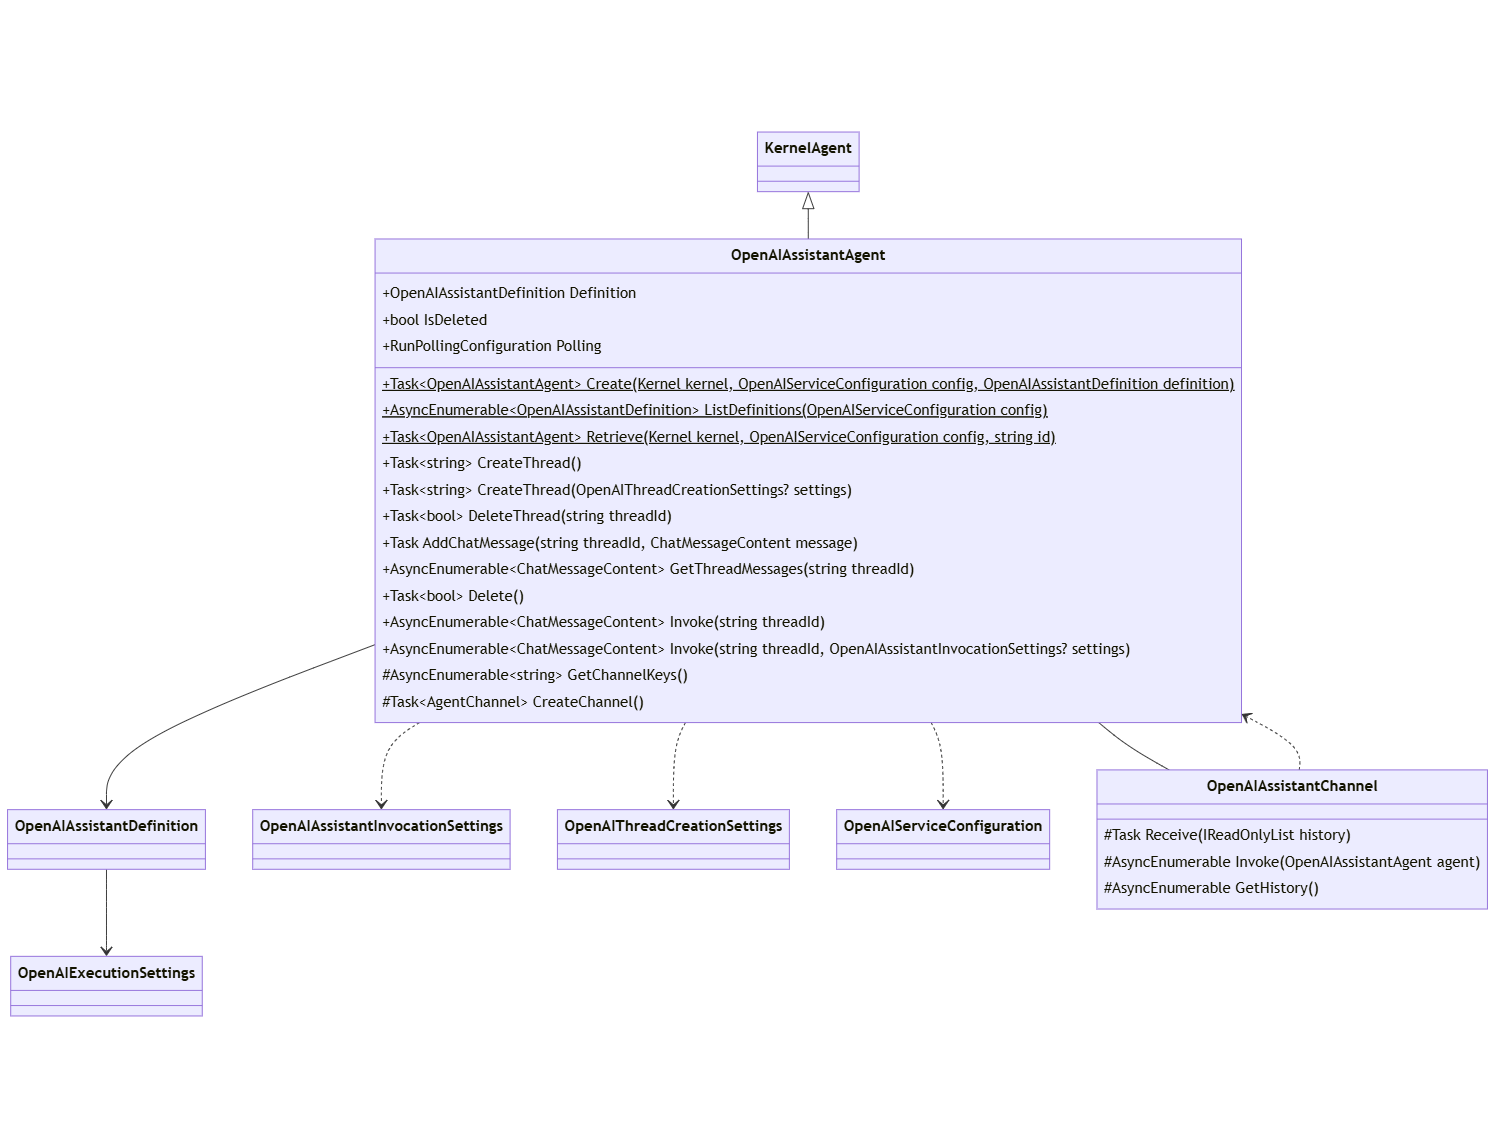
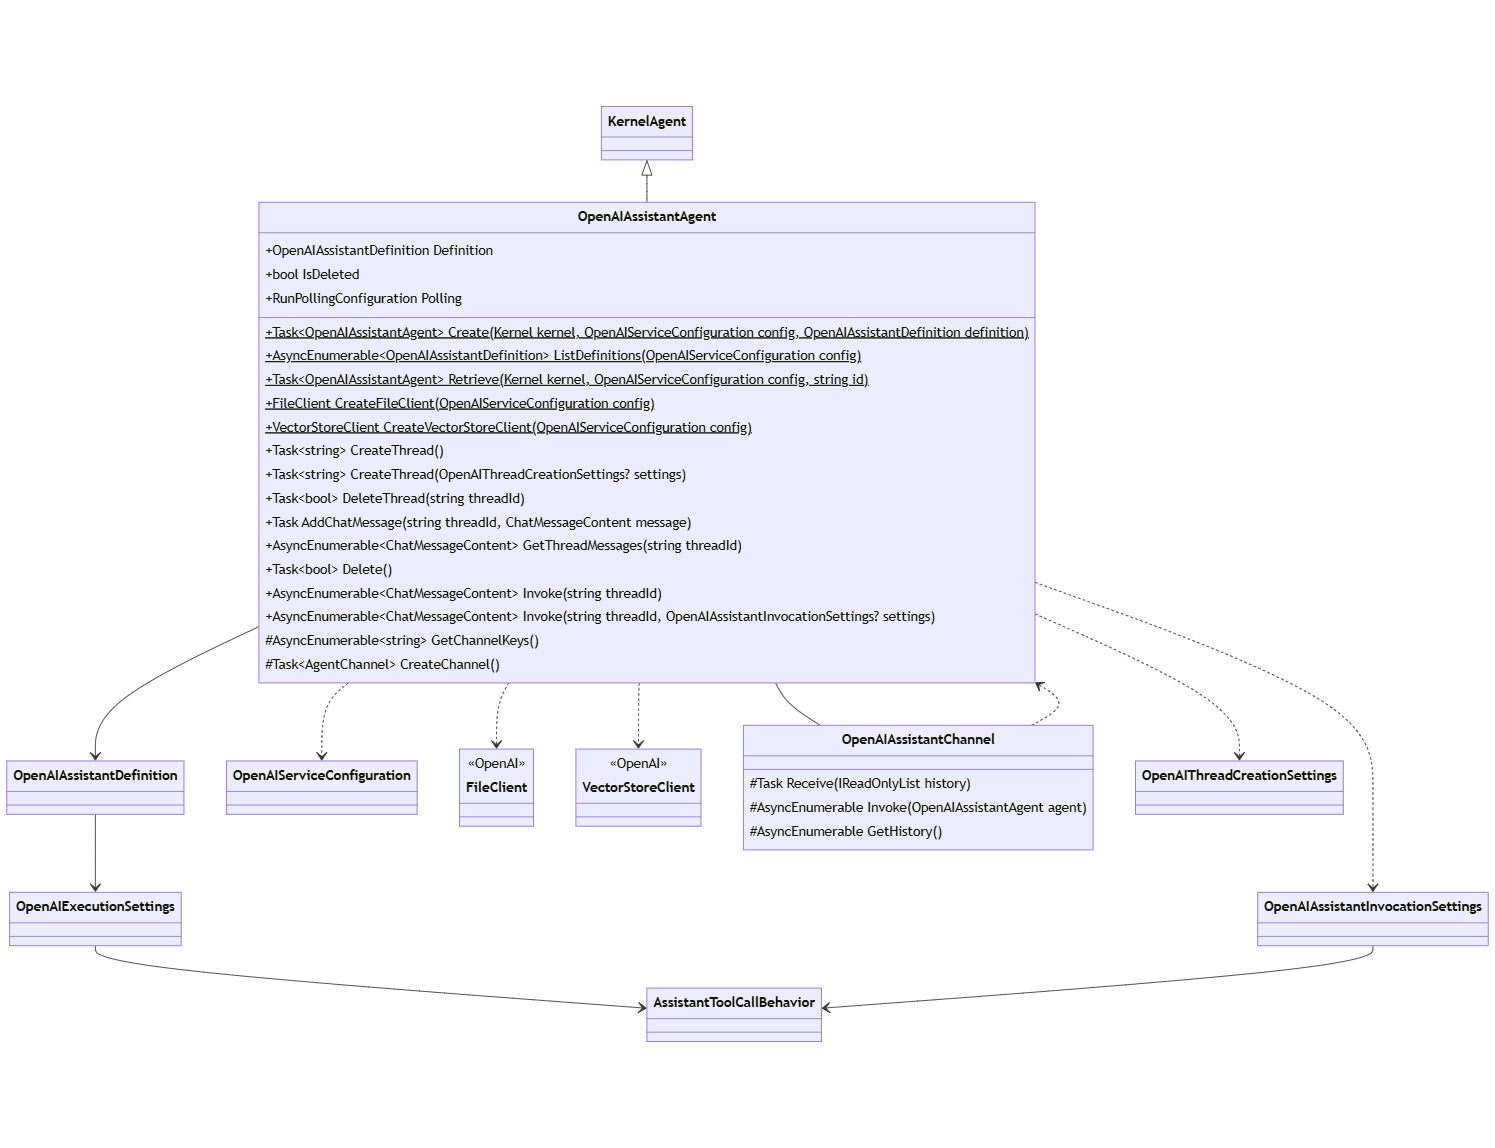
Add ToolCallBehavior

Changed region(s): [[0.0, 0.122, 1.0, 0.8841], [0.4308, 0.8537, 0.5538, 0.9146], [0.4, 0.0915, 0.4615, 0.1524]]

diff --git a/docs/decisions/0049-agents-assistantsV2.md b/docs/decisions/0049-agents-assistantsV2.md
@@ -12,7 +12,6 @@ Open AI has release the _Assistants V2_ API.  This builds on top of the V1 _assi
 ## Design
 
 Migrating to Assistant V2 API is a breaking change to the existing package due to:
-- Class definition changes
 - Underlying capability differences (e.g. `file-search` vs `retrieval`)
 - Underlying V2 SDK is version incompatible with V1 (`OpenAI` and `Azure.AI.OpenAI`)
 
@@ -29,7 +28,7 @@ The `OpenAIAssistantDefinition` was previously used only when enumerating a list
 This includes optional _execution_settings_ for defining default _run_ behavior.  Since these execution settings are not part of the remote assistant definition, they are persisted in the assistant metadata for when an existing agent is retrieved.
 
 <p align="center">
-<kbd><img src="diagrams/assistant-definition.png"  style="width: 360pt;"></kbd>
+<kbd><img src="diagrams/assistant-definition.png"  style="width: 500pt;"></kbd>
 </p>
 
 
@@ -38,7 +37,7 @@ This includes optional _execution_settings_ for defining default _run_ behavior.
 When invoking an `OpenAIAssistantAgent` directly (no-chat), settings that only apply to a discrete run may be specified.  These settings are defined as `OpenAIAssistantInvocationSettings` and ovetake precedence over any corresponding assistant or thread settings.
 
 <p align="center">
-<kbd><img src="diagrams/assistant-invocationsettings.png" style="width: 220pt;"></kbd>
+<kbd><img src="diagrams/assistant-invocationsettings.png" style="width: 370pt;"></kbd>
 </p>
 
 
@@ -58,7 +57,7 @@ The `OpenAIServiceConfiguration` defines how to connect to a specific remote ser
 > Note: This was previously named `OpenAIAssistantConfiguration`, but is not necessarily assistant specific.
 
 <p align="center">
-<kbd><img src="diagrams/assistant-serviceconfig.png"  style="width: 360pt;"></kbd>
+<kbd><img src="diagrams/assistant-serviceconfig.png"  style="width: 400pt;"></kbd>
 </p>
 
 
@@ -69,8 +68,15 @@ The `OpenAIAssistant` agent is roughly equivalent to its V1 form save for:
 - Supports settings for _assistant_, _thread_, and _run_
 - Agent definition shifts to `Definition` property
 
+Previously, the agent definition as exposed via direct properties such as:
+
+- `FileIds`
+- `Metadata`
+
+This has all been shifted and expanded upon via the `Definition` property which is of the same type (`OpenAIAssistantDefinition`) utilized to create and query an assistant.
+
 <p align="center">
-<kbd><img src="diagrams/assistant-agent.png"  style="width: 720pt;"></kbd>
+<kbd><img src="diagrams/assistant-agent.png"  style="width: 780pt;"></kbd>
 </p>
 
 The following table describes the purpose of diagramed methods on the `OpenAIAssistantAgent`.
